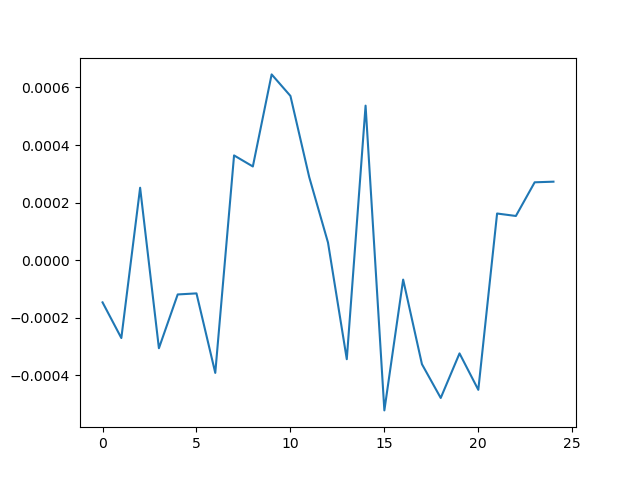
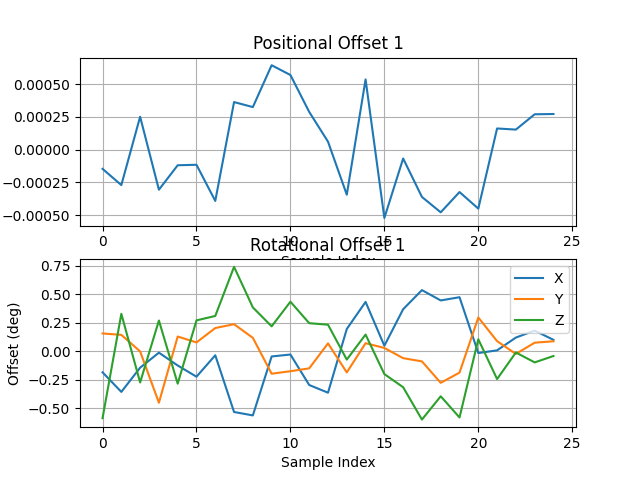
improve analysis script

diff --git a/data/dual_arm_acc_data/0_dual_arm_acc_data_processing.py b/data/dual_arm_acc_data/0_dual_arm_acc_data_processing.py
@@ -6,6 +6,7 @@
 import json, os
 import logging, datetime
 import matplotlib.pyplot as plt
+from scipy.spatial.transform import Rotation as R
 import numpy as np
 import pybullet_planning as pp
 
@@ -16,7 +17,8 @@ MARKER_NAME_PAIRS = [
     ['1', '3']
 ]
 
-DATA_BATCH = '20250509'
+#DATA_BATCH = '20250509'
+DATA_BATCH = '20250516'
 EXPORT = 1
 
 
@@ -55,7 +57,8 @@ for i, file_name in enumerate(json_files):
 
     # TODO fix hndling of multiple files
     
-    offset_data = []
+    pos_offset_data = []
+    rot_offset_data = []
     # compute offset data
     for entry in data['raw_data']:
         left_EE_pose = entry.get("left_EE_pose", [])
@@ -64,14 +67,38 @@ for i, file_name in enumerate(json_files):
         left_EE_position = np.array(left_EE_pose[0])
         right_EE_position = np.array(right_EE_pose[0])
         
-        offset = left_EE_position - right_EE_position
-        offset_data.append(np.linalg.norm(offset))
+        pos_offset = left_EE_position - right_EE_position
+        pos_offset_data.append(np.linalg.norm(pos_offset))
+
+        left_EE_rot = R.from_quat(left_EE_pose[1])
+        right_EE_rot = R.from_quat(right_EE_pose[1])
+ 
+        rot_offset = right_EE_rot.inv() * left_EE_rot
+        rot_offset_data.append(rot_offset.as_euler("xyz", degrees=True))
     
-    mean = np.mean(offset_data)
-    offset_data -= mean
+    mean_pos_offset = np.mean(pos_offset_data)
+    logger.info('Mean positional offset %.4f', mean_pos_offset)
+    pos_offset_data -= mean_pos_offset
+
+    mean_rot_offset = np.mean(rot_offset_data, axis=0)
+    logger.info('Mean rotational offset %.4f %.4f %.4f', *mean_rot_offset)
+    rot_offset_data -= mean_rot_offset
     
-    ax = fig.add_subplot()
-    ax.plot(offset_data)
+    axp = fig.add_subplot(2,1, 1)
+
+    axp.plot(pos_offset_data)
+    axp.set_title(f'Positional Offset {i+1}')
+    axp.set_xlabel('Sample Index')
+    axp.set_ylabel('Offset (m)')
+    axp.grid(True)
+
+    axr = fig.add_subplot(2,1, 2)
+    axr.plot(rot_offset_data)
+    axr.set_title(f'Rotational Offset {i+1}')
+    axr.set_xlabel('Sample Index')
+    axr.set_ylabel('Offset (deg)')
+    axr.legend(['X', 'Y', 'Z'])
+    axr.grid(True)
 
 if EXPORT:
     plt.savefig(os.path.join(data_folder, f'dual_arm_acc_{DATA_BATCH}.png'))